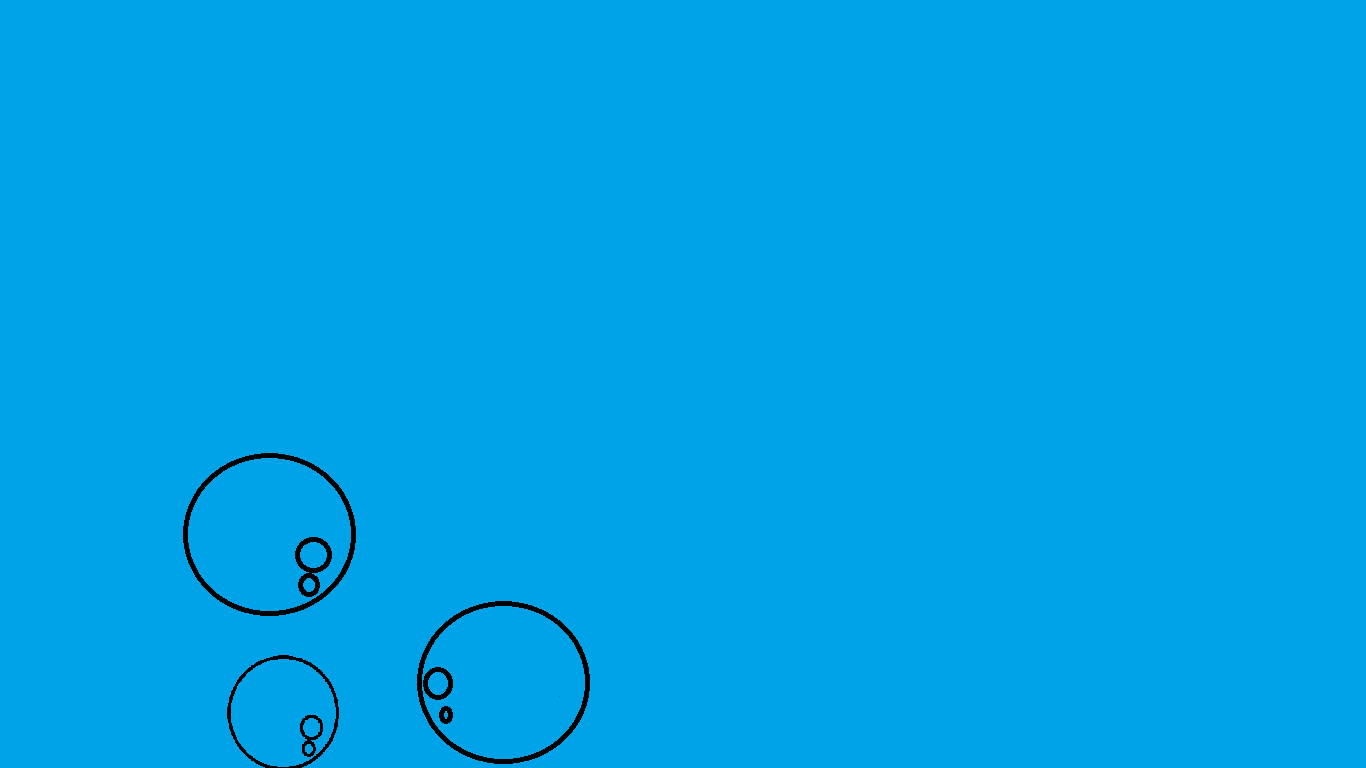
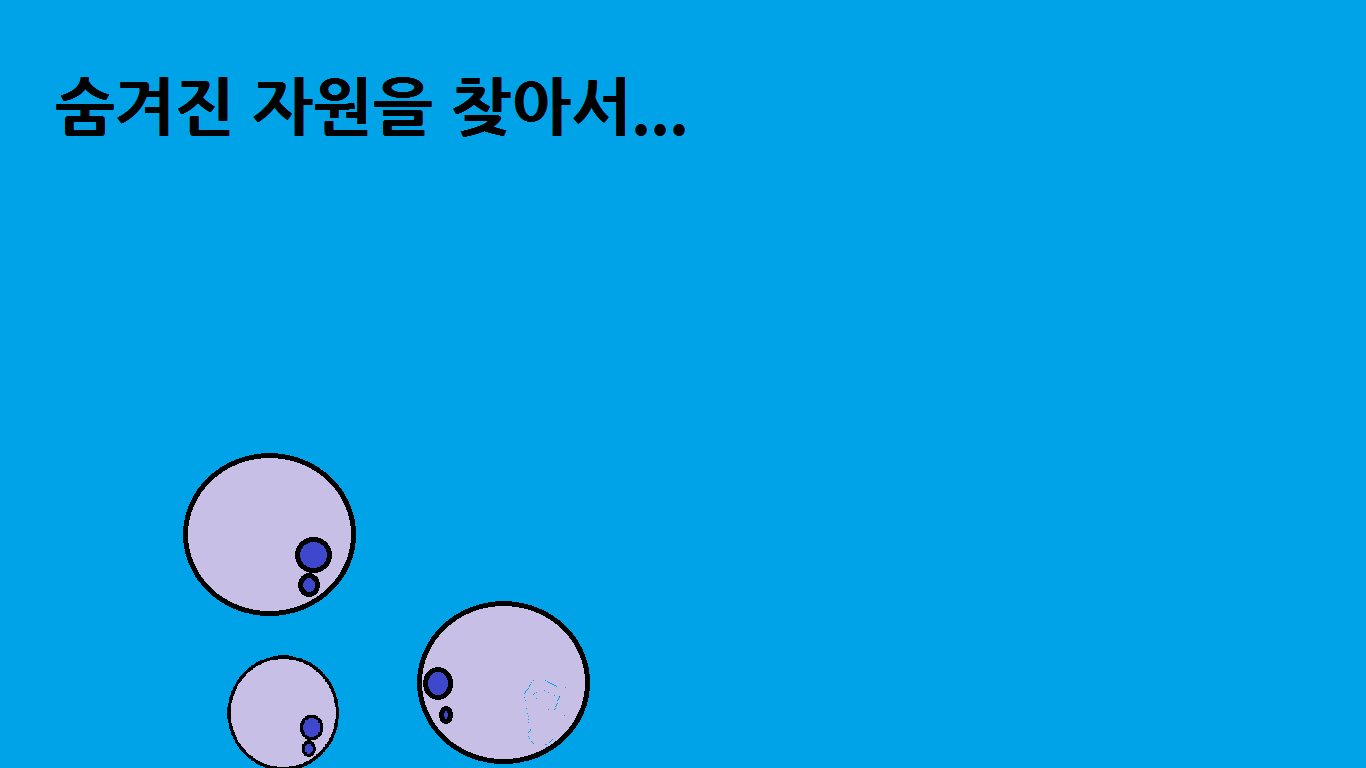
게임소개, 게임방법 추가

diff --git a/Game.cpp b/Game.cpp
@@ -41,7 +41,7 @@ HRESULT Game::InitializeFrame(int nCmdShow, char * frameTitle)
 		NULL,
 		m_lpcWndClassName,
 		frameTitle,
-		WS_OVERLAPPEDWINDOW,
+		WS_EX_TOPMOST | WS_POPUP,
 		CW_USEDEFAULT,
 		CW_USEDEFAULT,
 		rect.right - rect.left,
@@ -118,11 +118,11 @@ LRESULT CALLBACK Game::WndProc(HWND hWnd, UINT msg, WPARAM wParam, LPARAM lParam
 		break;
 
 	case GameUtils::Constant::Level::LEVEL_HOW:
-		MessageBox(m_hWnd, "How", "Yeah", MB_OK);
+		levelController.ChangeLevel(new HowLevel(&input));
 		break;
 
 	case GameUtils::Constant::Level::LEVEL_INFO:
-		MessageBox(m_hWnd, "Info", "Yeah", MB_OK);
+		levelController.ChangeLevel(new InfoLevel(&input));
 		break;
 
 	case GameUtils::Constant::Level::LEVEL_CREDIT:
@@ -130,7 +130,6 @@ LRESULT CALLBACK Game::WndProc(HWND hWnd, UINT msg, WPARAM wParam, LPARAM lParam
 		break;
 
 	case GameUtils::Constant::Level::LEVEL_END:
-		MessageBox(m_hWnd, "End!!", "End!@", MB_OK);
 		levelController.ChangeLevel(new MainLevel(&input));
 		break;
 	}

diff --git a/HowLevel.h b/HowLevel.h
@@ -1,0 +1,26 @@
+#pragma once
+
+#include "DX_Input.h"
+#include "Level.h"
+#include "TestButton.h"
+#include "GameDefine.h"
+
+class HowLevel :public Level
+{
+private:
+	SpriteSheet m_SpriteSheet;
+	DX_Input * m_pInput;
+
+	TestButton * m_pBackButton;
+	
+public:
+	HowLevel(DX_Input * pInput);
+	~HowLevel();
+
+	virtual void Load()   override;
+	virtual void Unload() override;
+	virtual void Render() override;
+	virtual void Update(float dt, HWND hWnd) override;
+
+};
+

diff --git a/Game.h b/Game.h
@@ -11,6 +11,8 @@
 #include "TestLevel.h"
 #include "TestLevel2.h"
 #include "MainLevel.h"
+#include "HowLevel.h"
+#include "InfoLevel.h"
 #include "LevelController.h"
 #include "GameDefine.h"
 
